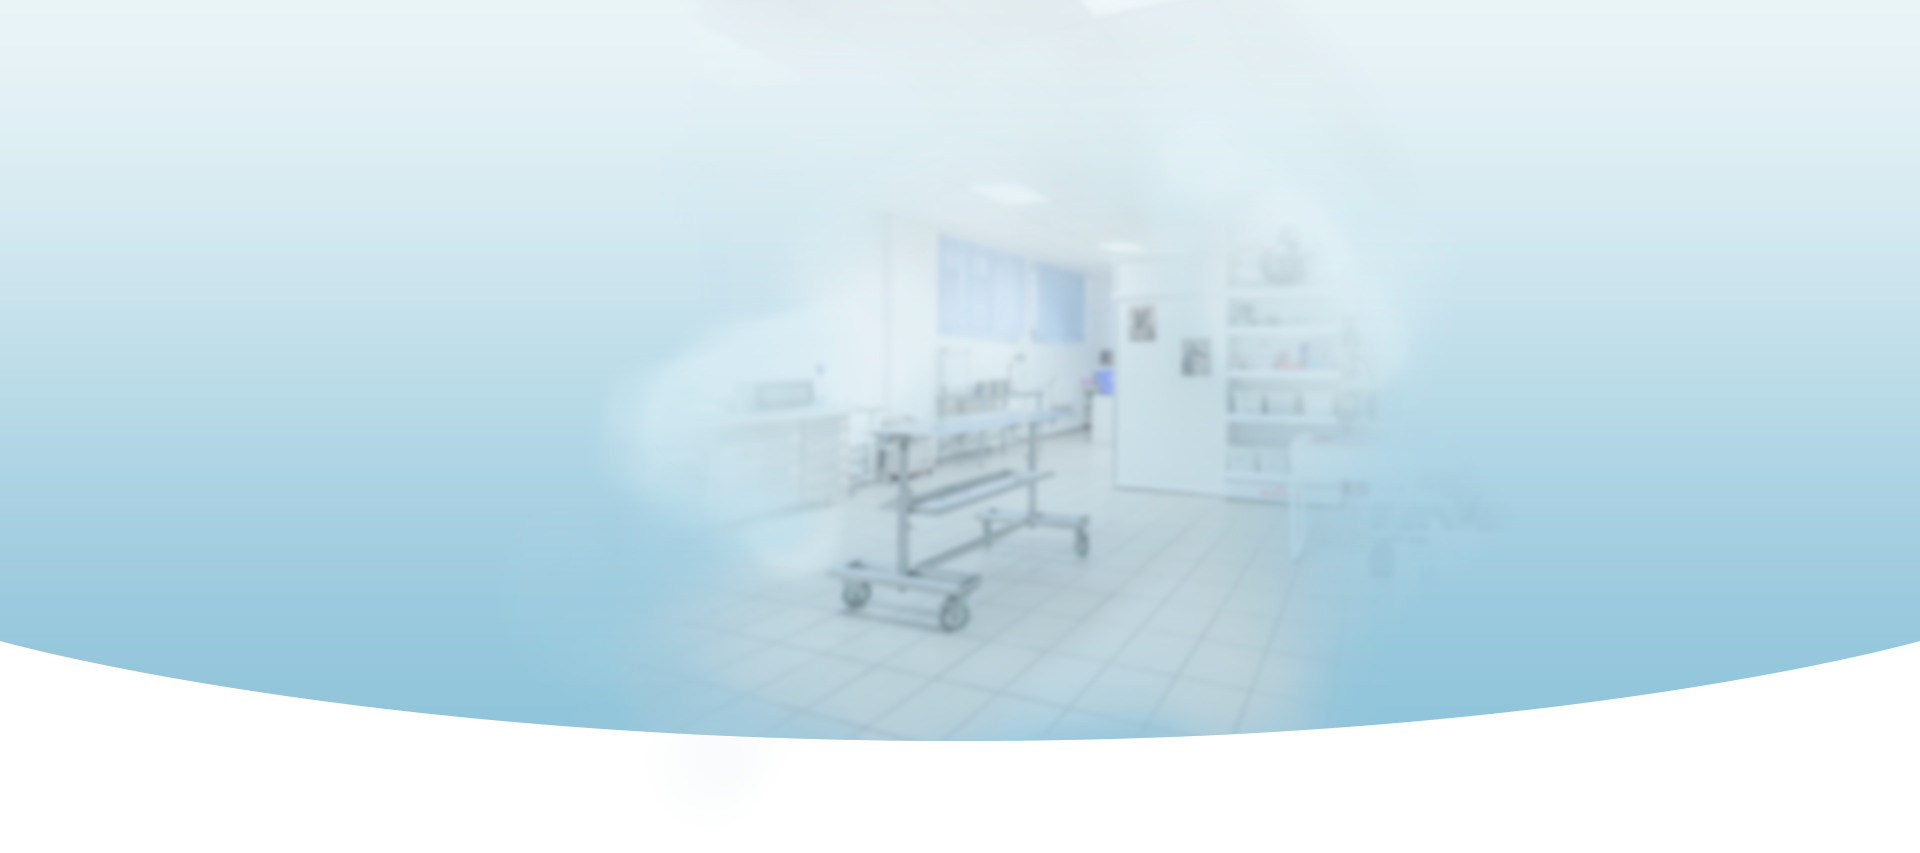
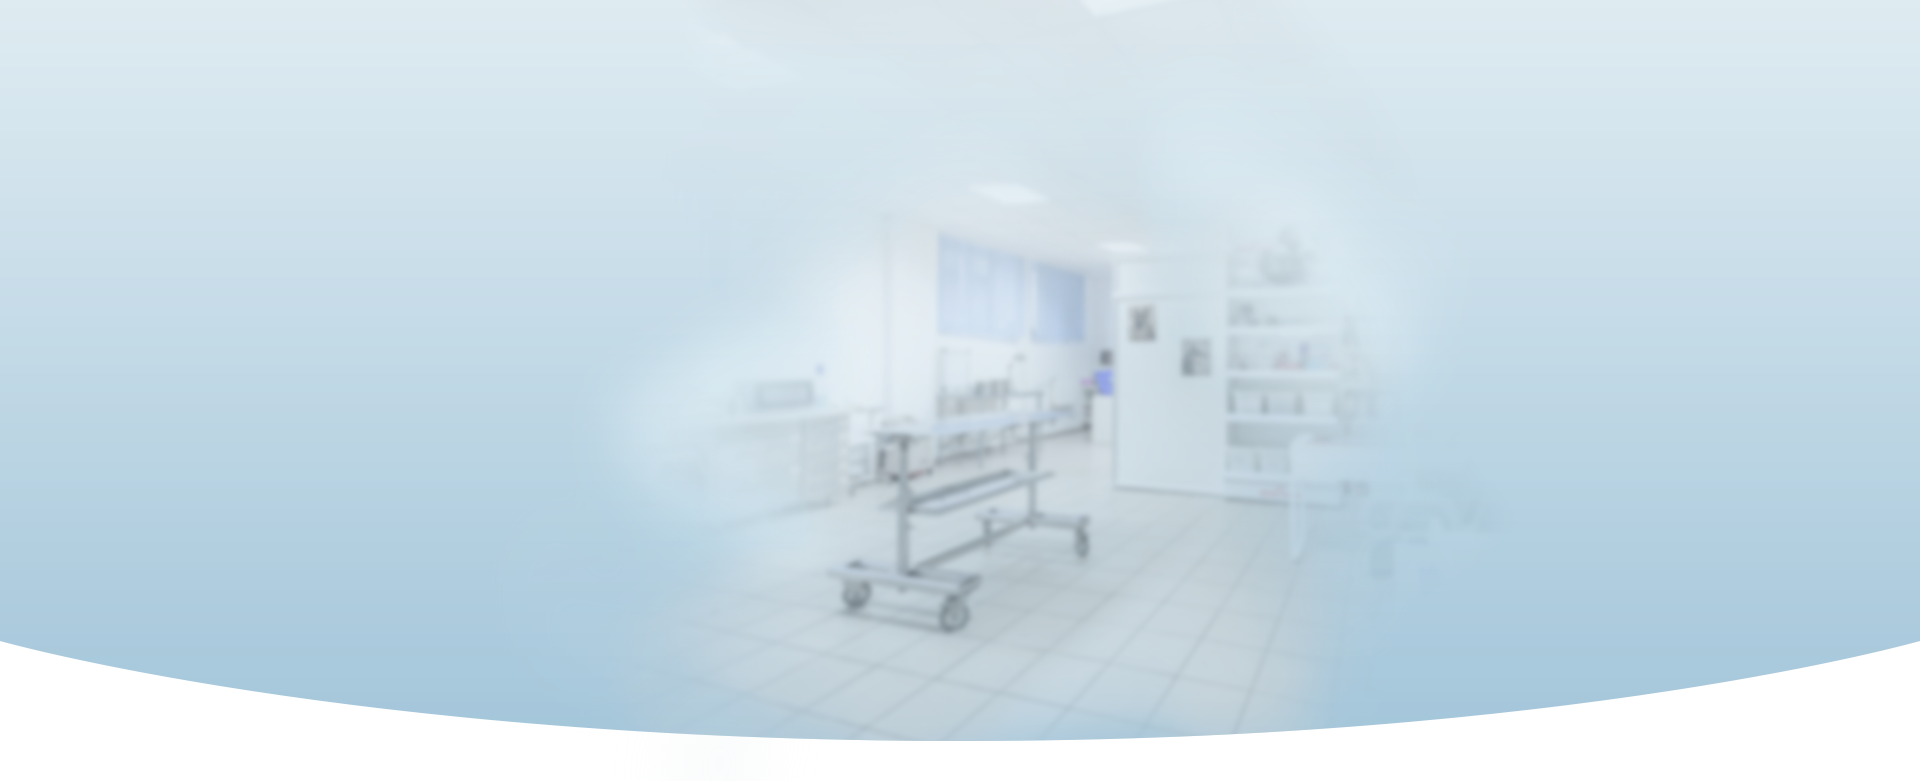
222

diff --git a/#src/scss/templates_block/_block-1.scss b/#src/scss/templates_block/_block-1.scss
@@ -5,10 +5,12 @@
   min-height: 600px;
   // .main__bg1
 
-  &__bg1 {
+  &__bg1,
+  &__bg3 {
     position: absolute;
     width: 100%;
     height: 100%;
+    opacity: 0.6;
     img{
       object-fit: cover;
       width: 100%;
@@ -16,7 +18,17 @@
     }
 
   }
-
+  &__bg3{
+    bottom: 0px;
+  }
+  .custom-shape-divider-top-1621807799 {
+    position: absolute;
+    top: 0;
+    left: 0;
+    width: 100%;
+    overflow: hidden;
+    line-height: 0;
+}
   // .main__body
 
   &__body {
@@ -32,7 +44,7 @@
     // background-color: #fff;
     &:first-child{
 
-      flex: 0 0 41%;
+      flex: 0 0 512px;
     }
     &:last-child{
       flex: 1 1 100%;
@@ -51,10 +63,10 @@
 
   &__title {
     font-size: 60px;
-    font-weight: 700;
+    font-weight: 600;
     color: #6EB1D0;
-    line-height: 65px;
-    word-spacing: 1.5px;
+    line-height: 62px;
+    // word-spacing: 1px;
   }
 
   // .main__subtitle
@@ -68,12 +80,12 @@
   // .main__buttons
 
   &__buttons {
-    position: relative;
-    z-index: 1;
+    // position: relative;
+    // z-index: 1;
     margin: 40px 0px 0px 0px;
     display: flex;
     align-items: center;
-    justify-content: flex-start;
+    // justify-content: flex-start;
   }
 
   // .main__button-1
@@ -81,50 +93,87 @@
   &__button-1 {
     position: relative;
     display: block;
-    z-index: 0;
-    width: 260px;
-    height: 76px;
-    background: url(../img/_1/bg_btn_1.png) 0 0 no-repeat;
-    background-size: cover;
+    width: 240px;
+    height: 70px;
+    background: url(../img/_1/bg_btn_1.png) center /cover no-repeat;
     display: flex;
     align-items: center;
     justify-content: center;
     text-align: center;
+    color:#fff;
+    font-size: 14px;
+    font-weight: 500;
+    letter-spacing: 1.3px;
 
-    // &::before{
-    //   content: "";
-    //   // display: block;
+    &::after{
+      content: "";
+      position: absolute;
+      left: -17px;
+      top: -2px;
+      z-index: -1;
+      display: block;
+      width: 302px;
+      height: 130px;
+      border-radius: 36px;
+      background: url(../img/_1/shadow_btn.png) center /cover no-repeat;
 
-
-    // }
-    // &::before{
-    //     content: "";
-    //     position: absolute;
-    //     left: 0;
-    //     top: 0;
-    //     z-index: 0;
-    //     display: block;
-    //     width: 260px;
-    //     height: 76px;
-    //     background: #73b7d6;
-    // }
+    }
+    &::before{
+        content: "";
+        display: block;
+        position: absolute;
+        left: 0;
+        top: 4px;
+        z-index: -1;
+        width: 240px;
+        height: 70px;
+        border-radius: 36px;
+        background: #73b7d6;
+    }
   }
 
   // .main__button-2
 
   &__button-2 {
     margin: 0px 0px 0px 20px;
+    position: relative;
+    display: block;
+    width: 200px;
+    height: 70px;
+    display: flex;
+    align-items: center;
+    justify-content: center;
+    text-align: center;
+    border-radius: 36px;
+    border: 2px solid #6eb1d0;
+    color:#6eb1d0;
+    font-size: 14px;
+    font-weight: 500;
+    letter-spacing: 1.3px;
 
   }
 
   // .main__image-block
 
   &__image-block {
+
   }
 
   // .main__image
 
   &__image {
+      position: relative;
+      width: 560px;
+      height: 100%;
+      left: 0;
+      top: 100px;
+     img{
+       position: absolute;
+       left: 0;
+       top: 0;
+       max-width: 100%;
+       object-fit: contain;
+     }
   }
 }
 

diff --git a/#src/templates_block/_block-1.html b/#src/templates_block/_block-1.html
@@ -1,5 +1,6 @@
 <section class="main">
   <div class="main__bg1"><img src="../img/_1/bg_1.png" alt=""></div>
+  <!-- <div class="main__bg3"><img src="../img/_1/bg_3.png" alt=""></div> -->
   <div class="_container">
     <div class="main__body">
       <div class="main__column">
@@ -22,7 +23,7 @@
       </div>
       <div class="main__column">
         <div class="main__image-block image-block-main">
-          <div class="main__image image-block-main__image"><img src="#" alt=""></div>
+          <div class="main__image image-block-main__image"><img src="./img/_1/image_1.png" alt=""></div>
           <div class="image-block-main__content discount-block">
                 <div class="discount-block__num num-discount-block">
                   <div class="num-discount-block__value"><span>20</span><span>%</span></div>
@@ -36,4 +37,10 @@
       <!-- /main__column -->
     </div>
   </div>
+  <!-- <div class="custom-shape-divider-top-1621807799">
+    <svg data-name="Layer 1" xmlns="http://www.w3.org/2000/svg" viewBox="0 30 1200 150" preserveAspectRatio="none">
+        <path d="M0,0V7.23C0,65.52,268.63,112.77,600,112.77S1200,65.52,1200,7.23V0Z" class="shape-fill"></path>
+    </svg>
+     https://itchief.ru/html-and-css/wave-divider-using-svg
+</div> -->
 </section>
